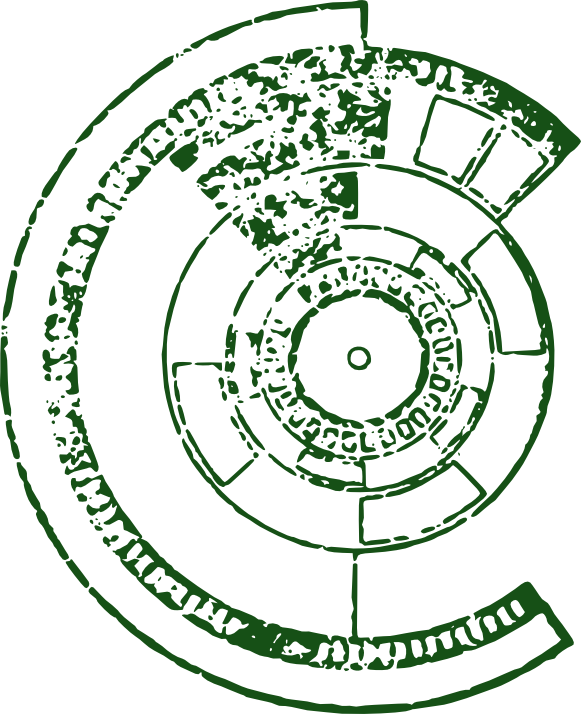
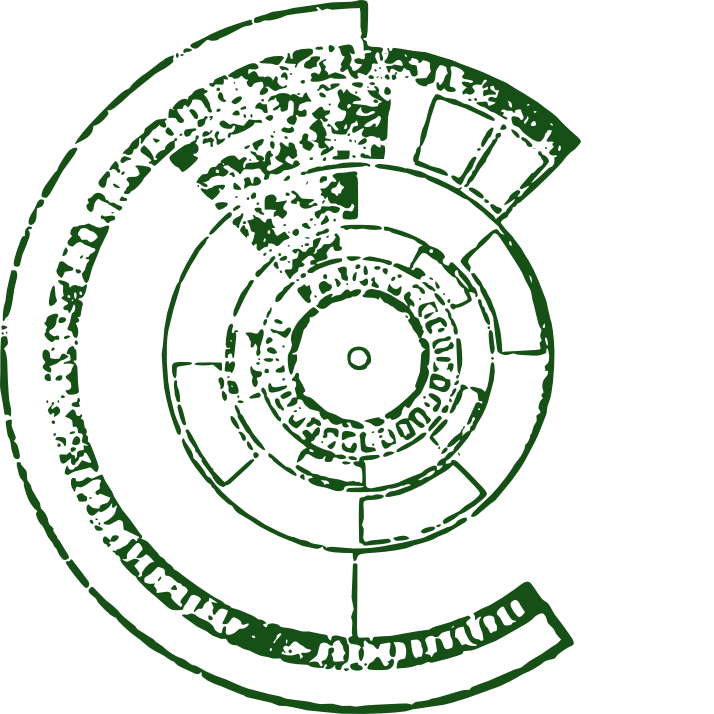
node interpolation fixed, multiple background graphics support, add some nodes from easterhegg07

diff --git a/trunk/net/relet/freimap/VisorFrame.java b/trunk/net/relet/freimap/VisorFrame.java
@@ -62,15 +62,11 @@ public class VisorFrame extends JPanel implements DataSourceListener, ComponentL
   
   DataSource source;
   
-  ImageIcon cbase  = new ImageIcon(getClass().getResource("/gfx/cbase.png")); 
-  //ImageIcon berlin = new ImageIcon(getClass().getResource("/gfx/berlin.png"));
+  Vector<BackgroundElement> bgitems = new Vector<BackgroundElement>();
   ImageIcon logo1  = new ImageIcon(getClass().getResource("/gfx/logo1.png"));
   ImageIcon logo2  = new ImageIcon(getClass().getResource("/gfx/logo2.png"));
   ImageIcon play   = new ImageIcon(getClass().getResource("/gfx/play.png"));
   ImageIcon stop   = new ImageIcon(getClass().getResource("/gfx/stop.png"));
-  double cscale = 40000; 
-  double clat = 52.520869, //cbase center coordinates
-         clon = 13.409457;
 
   int mousex=0, mousey=0;
   FreiNode selectedNode;
@@ -93,7 +89,22 @@ public class VisorFrame extends JPanel implements DataSourceListener, ComponentL
   DateFormat dfdate=DateFormat.getDateInstance(DateFormat.MEDIUM, Locale.GERMANY),
              dftime=DateFormat.getTimeInstance(DateFormat.MEDIUM, Locale.GERMANY);
 
+  void initBackgrounds() {
+    int num=Configurator.getI("background.count");
+    for (int i=1;i<=num;i++) {
+      bgitems.addElement(new BackgroundElement(
+        new ImageIcon(getClass().getResource(Configurator.get("background."+i+".gfx"))), //this might crash
+        Configurator.getD("background."+i+".lon"),
+        Configurator.getD("background."+i+".lat"),
+        Configurator.getD("background."+i+".scale")
+      ));
+    }
+  }
+
   public VisorFrame(DataSource source) {
+    
+    initBackgrounds();
+
     this.source=source;
     this.source.addDataSourceListener(this);
     this.addComponentListener(this);
@@ -103,6 +114,7 @@ public class VisorFrame extends JPanel implements DataSourceListener, ComponentL
 
     System.out.println("reading node list.");
     nodes=source.getNodeList();
+    dumpNodes();
     System.out.println("reading node availability.");
     availmap=source.getNodeAvailability(0);
     System.out.print("reading link list.");
@@ -156,8 +168,12 @@ public class VisorFrame extends JPanel implements DataSourceListener, ComponentL
     nextFrame();
   }
   public void nodeListUpdate(FreiNode node) {
-    nodes.add(node);
-    
+    if (nodes!=null) { //fixme: this really should not happen
+      nodes.add(node);
+      dumpNodes();
+    }
+  }
+  private void dumpNodes() {
     try {
       ObjectOutputStream oos=new ObjectOutputStream(new FileOutputStream("nodes.dump"));
       oos.writeObject(nodes);
@@ -223,15 +239,23 @@ public class VisorFrame extends JPanel implements DataSourceListener, ComponentL
     g.fillRect(0,0,w,h);
 
 
-    //draw bg
-    //todo !! fix position + scale of berlin map
-    double cbasexc = lon2x(clon) - 358d*scale/cscale; 
-    double cbaseyc = lat2y(clat) - 358d*scale/cscale;
-    //double berlinxc = (13.22000 - x) * scale + cx; 
-    //double berlinyc = (52.68472 - y) * -scale + cy;
-    g.drawImage(cbase.getImage(), new AffineTransform(scale/cscale,0d,0d,scale/cscale,cbasexc,cbaseyc), this);
-    //g.drawImage(berlin.getImage(), new AffineTransform(scale/7500,0d,0d,scale/7500,berlinxc,berlinyc), this);
-
+    {
+    //draw backgrounds
+      BackgroundElement e;
+      double rscale, xc, yc;
+      int w2, h2;
+      for (int i=0;i<bgitems.size();i++) {
+        e = bgitems.elementAt(i);
+        Image img=e.gfx.getImage();
+        w2 = img.getWidth(this)/2;
+        h2 = img.getHeight(this)/2;
+        rscale = scale/e.scale;
+        xc = lon2x(e.lon) - w2*rscale; 
+        yc = lat2y(e.lat) - h2*rscale;
+        g.drawImage(img, new AffineTransform(rscale,0d,0d,rscale,xc,yc), this);
+      }
+    }
+        
     //draw links
     Stroke linkStroke = new BasicStroke((float)(Math.min(5,0.00005 * scale)), BasicStroke.CAP_ROUND, BasicStroke.JOIN_ROUND);
     Stroke cableStroke = new BasicStroke((float)(Math.min(15,0.00015 * scale)), BasicStroke.CAP_ROUND, BasicStroke.JOIN_ROUND);
@@ -285,6 +309,11 @@ public class VisorFrame extends JPanel implements DataSourceListener, ComponentL
             link.to.latsum+=link.from.lat;
             link.to.nc++;
           }
+          if (link.from.unlocated) {
+            link.from.lonsum+=link.to.lon;
+            link.from.latsum+=link.to.lat;
+            link.from.nc++;
+          }
         }
       }
     }
@@ -319,7 +348,9 @@ public class VisorFrame extends JPanel implements DataSourceListener, ComponentL
         } else if (node.nc == 1) {
           node.lon=node.lonsum + 0.0003;
           node.lat=node.latsum + 0.0003;
-        }
+        } /*else {
+          System.err.println("Node unlocated with no neighbours: "+node.id);
+        }*/
         node.lonsum=0; node.latsum=0; node.nc=0;
       }
     }

diff --git a/trunk/net/relet/freimap/Configurator.java b/trunk/net/relet/freimap/Configurator.java
@@ -45,6 +45,11 @@ public class Configurator {
     {"mysql.db", "freifunk", "# database name"},
     {"mysql.tables.nodes", "nodes_interpolated", "# table name for node positions"},
     {"mysql.tables.links", "links", "# table name for link data"},
+    {"background.count", "1", "# background picture count"},
+    {"background.1.gfx", "/gfx/cbase.png", "# background picture"},
+    {"background.1.lon", "52.520869", "# longitude of center of background"},
+    {"background.1.lat", "13.409457", "# latitude"},
+    {"background.1.scale", "40000", "# scale - you need to experiment here"},
   };
   public static Hashtable<String,String> config=new Hashtable<String,String>();
 
@@ -61,6 +66,13 @@ public class Configurator {
       return Integer.parseInt(config.get(key)); 
     } catch (Exception ex) {
       return -1;
+    }
+  }
+  public static double getD(String key) {
+    try {
+      return Double.parseDouble(config.get(key)); 
+    } catch (Exception ex) {
+      return Double.NaN;
     }
   }
 
@@ -110,9 +122,9 @@ public class Configurator {
             String value=line.substring(pos+1);
             if (value.indexOf("\t#")>0) value=value.substring(0,value.indexOf("\t#"));
             value=value.trim();
-            if (config.get(key)==null) {
-              System.out.println("Warning: Ignoring unknown configuration key "+key);
-            }
+            /* if (config.get(key)==null) {
+              System.out.println("Warning: Possibly ignoring unknown configuration key "+key);
+            } */
             config.put(key, value);
           } else {
             System.out.println("Ignoring malformed configuration line "+n+".");

diff --git a/trunk/net/relet/freimap/OLSRDDataSource.java b/trunk/net/relet/freimap/OLSRDDataSource.java
@@ -58,7 +58,6 @@ public class OLSRDDataSource implements DataSource {
     if (useMysqlSource) mysqlSource=new MysqlDataSource("localhost", "root", "", "freiberlin", true);
     //opening dot plugin connection
     dot = new DotPluginListener(host, port, this);
-    dot.start();
   }
   
   public Vector<FreiNode> getNodeList() {
@@ -125,6 +124,7 @@ public class OLSRDDataSource implements DataSource {
   //threaded information fetching
   public void addDataSourceListener(DataSourceListener dsl) {
     listener = dsl;
+    if (!dot.isAlive()) dot.start();
   }
   //some optional methods
   public void getLinkCountProfile(FreiNode node, NodeInfo info) {

diff --git a/trunk/net/relet/freimap/FreiNode.java b/trunk/net/relet/freimap/FreiNode.java
@@ -35,10 +35,9 @@ public class FreiNode implements Comparable, Serializable {
 
   public FreiNode(String id) {
     this.id=id;
-    
     lat = 52.520869;// + Math.random()/50-0.01; //when no coordinates are known, generate some around the center of the cbase
     lon = 13.409457;// + Math.random()/50-0.01; //cbase center +- random 0.01
-    unlocated=true; 
+    this.unlocated=true; 
   }
   public FreiNode(String id, double lon, double lat) {
     this.id=id;
